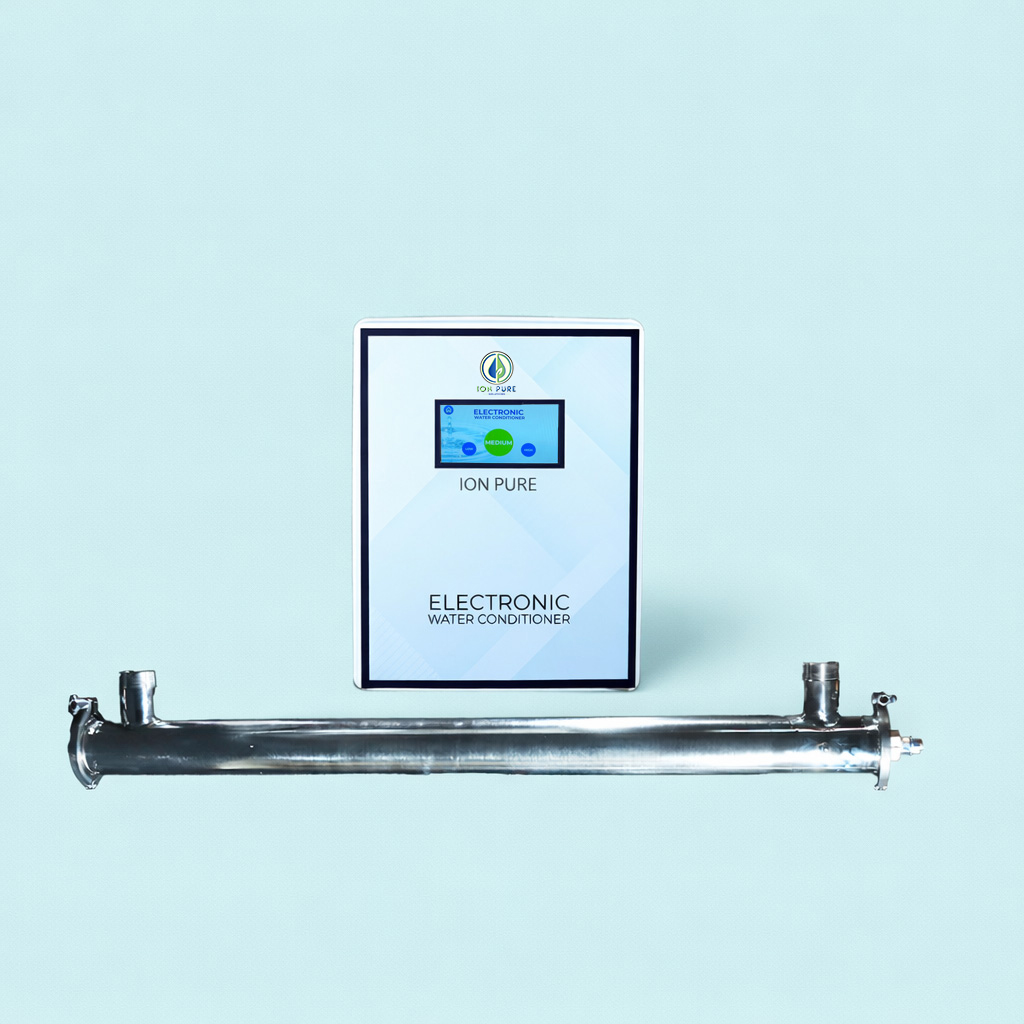
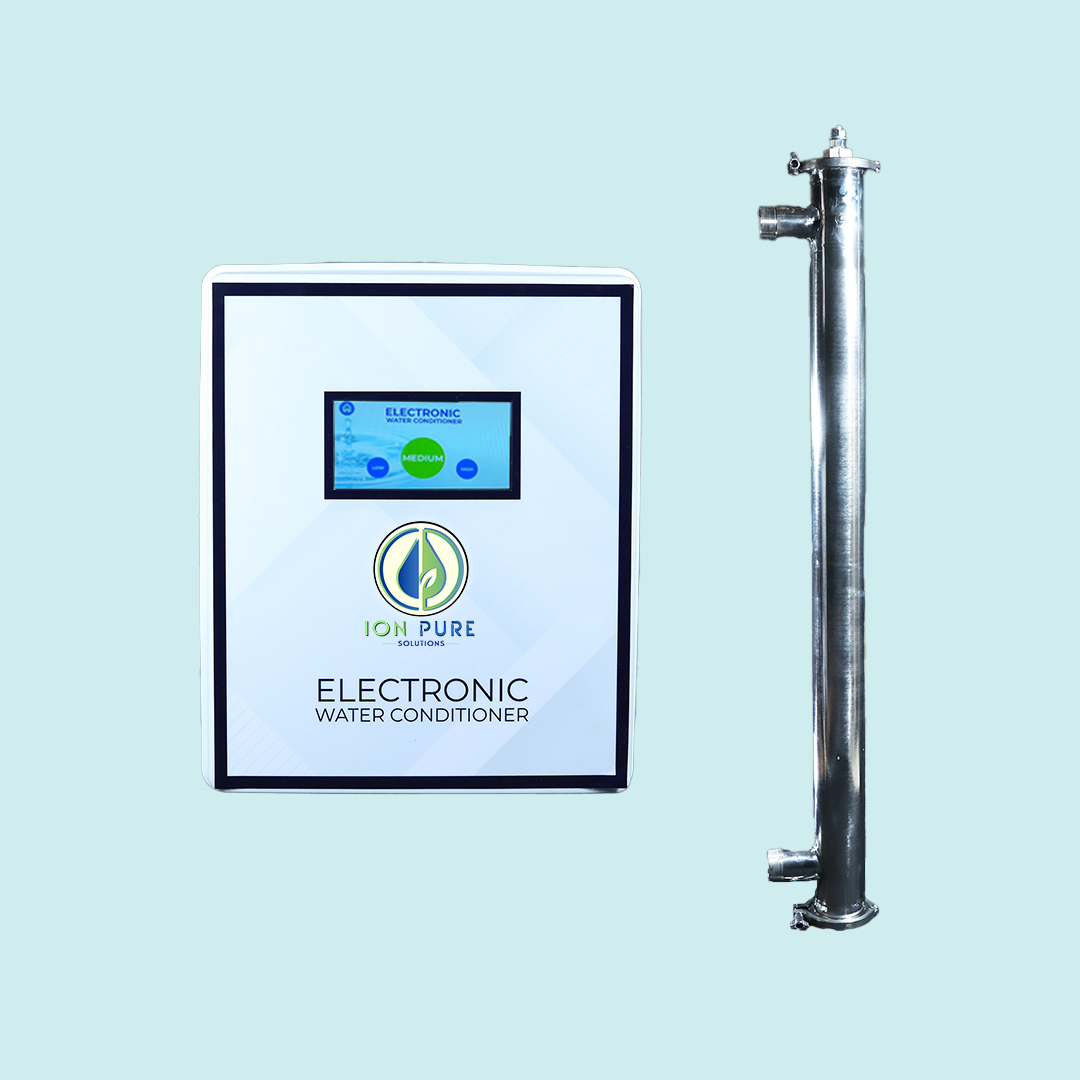
Added updated product images and hero images

Changed region(s): [[0.0625, 0.125, 0.9062, 0.875]]

diff --git a/src/components/views/ProductDetail.jsx b/src/components/views/ProductDetail.jsx
@@ -737,19 +737,19 @@ export default function ProductDetail({ product, onBack, setView }) {
                   <img
                     src={p.thumbnail}
                     loading="lazy"
-                    className="w-[85%] h-[85%] object-contain transition-transform duration-700 z-10"
+                    className="w-[85%] h-[85%] object-contain transition-transform duration-700 z-10 hover:scale-110"
                     alt={p.name}
                   />
                   <div className="absolute bottom-4 left-4 right-4 flex justify-between items-center z-20">
                     <span className="text-[8px] font-black uppercase text-ionBlue/30 tracking-widest">
                       {p.category}
                     </span>
-                    <div className="w-8 h-8 rounded-full bg-white shadow-lg flex items-center justify-center text-ionBlue opacity-0 group-hover:opacity-100 transition-all translate-y-4 group-hover:translate-y-0">
+                    {/* <div className="w-8 h-8 rounded-full bg-white shadow-lg flex items-center justify-center text-ionBlue opacity-0 group-hover:opacity-100 transition-all translate-y-4 group-hover:translate-y-0">
                       <Plus size={16} />
-                    </div>
+                    </div> */}
                   </div>
                 </div>
-                <h4 className="text-base md:text-lg font-black uppercase italic text-ionMidnight group-hover:text-ionBlue transition-colors px-2 leading-tight">
+                <h4 className="text-base md:text-lg font-black uppercase italic text-ionMidnight group-hover:text-ionBlue transition-colors px-2 leading-tight text-center">
                   {p.name}
                 </h4>
               </motion.div>

diff --git a/src/data/heroData.js b/src/data/heroData.js
@@ -1,14 +1,16 @@
 // src/data/heroData.js
-import h2_1 from "../assets/HeroProducts/ION PURE H2.png";
-import h2Pro1 from "../assets/HeroProducts/ION PURE H2 PRO.png"; 
-import ipFlow1 from "../assets/HeroProducts/ION PURE FLOW.png";
-import flowPlus1 from "../assets/HeroProducts/ION PURE FLOW PLUS.png";
-import flowMax1 from "../assets/HeroProducts/ION PURE FLOW MAX.png";
+import h2_1 from "../assets/HeroProducts/4.png";
+import h2Pro1 from "../assets/HeroProducts/5.png"; 
+import ipFlow1 from "../assets/HeroProducts/1.png";
+import flowPlus1 from "../assets/HeroProducts/2.png";
+import flowMax1 from "../assets/HeroProducts/3.png";
+import Conditioner from "../assets/HeroProducts/6.png";
 
 export const heroProducts = [
-  { id: "flow-max", src: flowMax1, alt: "ION PURE FLOW MAX" },
-  { id: "ips-h2-pro", src: h2Pro1, alt: "IPS H₂ PRO" },
-  { id: "flow-plus", src: flowPlus1, alt: "ION PURE FLOW PLUS" },
-  { id: "ips-h2", src: h2_1, alt: "IPS H₂" },
   { id: "flow", src: ipFlow1, alt: "ION PURE FLOW" },
+  { id: "flow-plus", src: flowPlus1, alt: "ION PURE FLOW PLUS" },
+  { id: "flow-max", src: flowMax1, alt: "ION PURE FLOW MAX" },
+  { id: "ips-h2", src: h2_1, alt: "IPS H₂" },
+  { id: "ips-h2-pro", src: h2Pro1, alt: "IPS H₂ PRO" },
+  { id: "ips-water-conditioner", src: Conditioner, alt: "WATER CONDITIONER" },
 ];

diff --git a/src/components/sections/FeaturedProducts.jsx b/src/components/sections/FeaturedProducts.jsx
@@ -125,8 +125,9 @@ export default function FeaturedProducts({ products }) {
 
                   <img
                     src={product.thumbnail}
+                    loading="lazy"
                     alt={product.name}
-                    className="max-w-full max-h-full object-contain drop-shadow-xl"
+                    className="max-w-full max-h-full object-contain drop-shadow-xl transition-transform duration-700 hover:scale-110"
                   />
                 </div>
 

diff --git a/src/data/products.js b/src/data/products.js
@@ -437,7 +437,7 @@ export const PRODUCTS = [
     },
   },
   {
-    id: "ips-water-softener",
+    id: "ips-water-conditioner",
     name: "Electronic Water Conditioner",
     category: "Electronic Water Conditioner",
     thumbnail: softner1,
